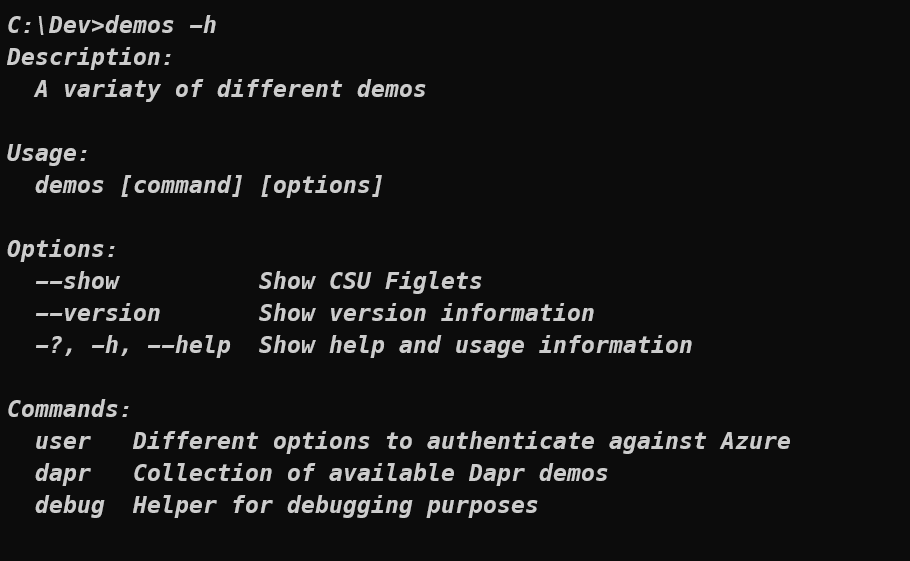
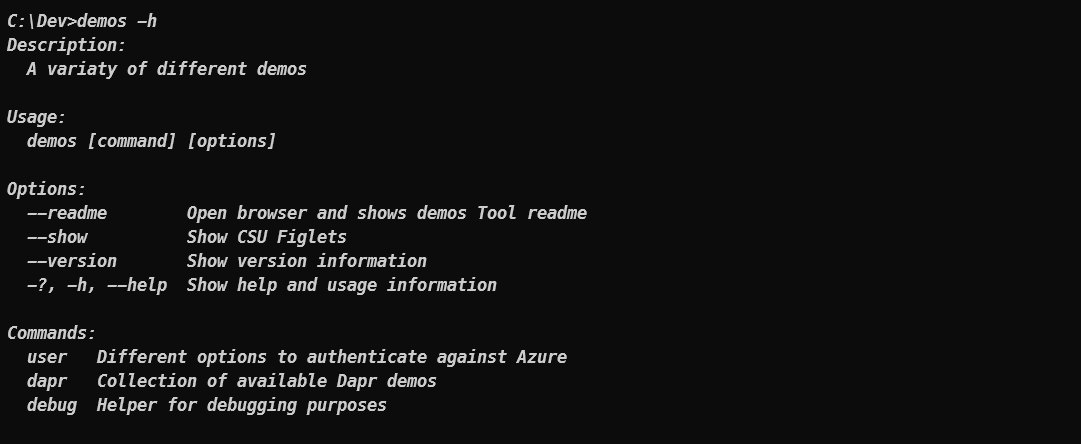
updated version, add global readme option

diff --git a/demos/Program.cs b/demos/Program.cs
@@ -1,11 +1,16 @@
 using demos.Commands.AzureUserRootCommand;
 using demos.Commands.DaprRootCommand;
 using demos.Commands.DebugRootCommand;
+using demos.Helpers;
 using Spectre.Console;
 using System.CommandLine;
 
 
 var rootCmd = new RootCommand("A variaty of different demos");
+
+var showHelp = new Option<bool>(
+    name: "--readme", description: "Open browser and shows demos Tool readme");
+rootCmd.AddGlobalOption(showHelp);
 
 var showFiglets = new Option<bool>(
     name: "--show", description: "Show CSU Figlets");
@@ -16,17 +21,22 @@ rootCmd.AddCommand(new AzureUserCommand());
 rootCmd.AddCommand(new DaprRootCommand());
 rootCmd.AddCommand(new DebugCommand());
 
-rootCmd.SetHandler((show) =>
+rootCmd.SetHandler(async (showFiglet, showHelp) =>
 {
-    DisplayFiglets(show);
-}, showFiglets);
+    await DisplayInfo(showFiglet, showHelp);
+}, showFiglets, showHelp);
 
-void DisplayFiglets(bool show)
+async Task DisplayInfo(bool show, bool showHelp)
 {
     if(show)
     {
         AnsiConsole.Write(new FigletText(FigletFont.Load($"{AppDomain.CurrentDomain.BaseDirectory}starwars.flf"), "DK CSU").Color(Color.Red));
         AnsiConsole.Write(new FigletText(FigletFont.Load($"{AppDomain.CurrentDomain.BaseDirectory}starwars.flf"), "App Inno").Color(Color.Blue));
+    }
+    if(showHelp)
+    {
+        var cmd = $"start msedge https://github.com/mbn-ms-dk/DaprTool/blob/main/demos/documentation/demos.md";
+        await Utils.RunCmd(cmd);
     }
 }
 

diff --git a/demos/documentation/demos.md b/demos/documentation/demos.md
@@ -40,6 +40,7 @@ Options are added to a command using hyphen(s) as in `--<option>` and subcommand
 ## Options
 
 To the root command there are options:
+* `--readme` which is a global command (can be added to all commands and subcommands) will open edge browser and show a more detailed readme for the different demos
 * `--show` which will show a Figlet
 * `--version` which will show the version number
 * `-?`, `-h` or `--help` which will provide help information. __this option is available for all commands and subcommands__
